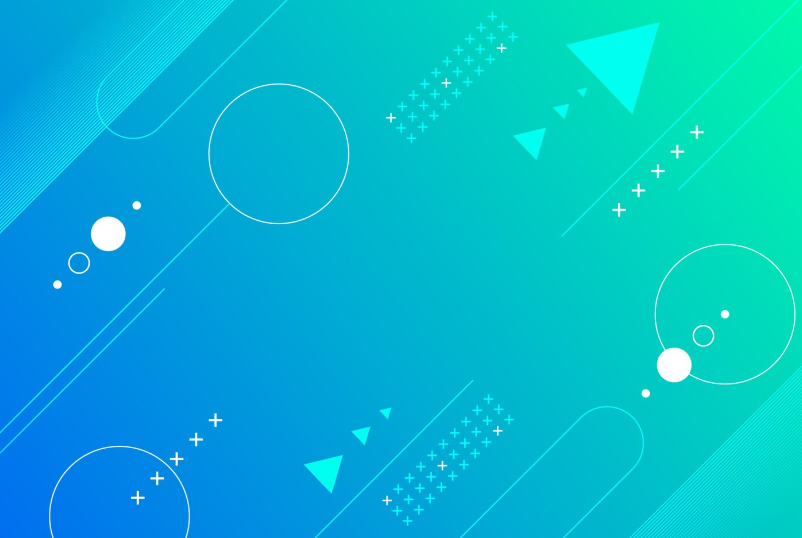
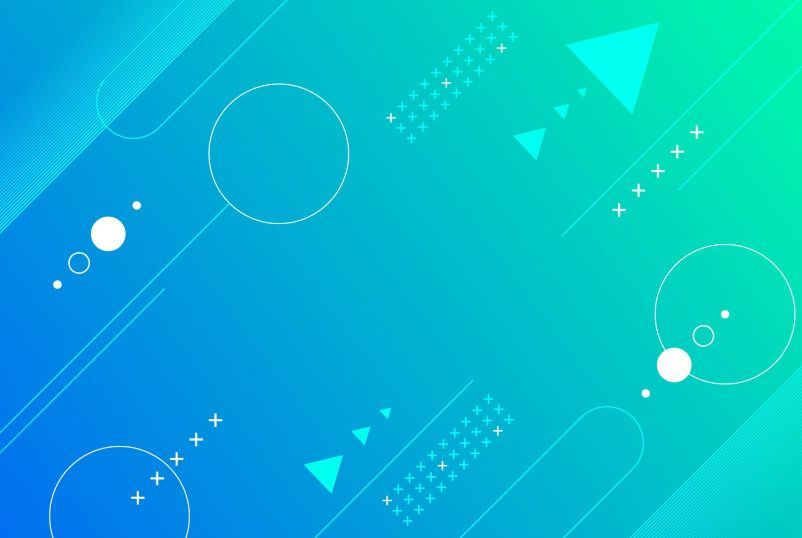
perf: optimize assets and fonts for ultra-fast loading on mobile and tablet devices

diff --git a/src/app/layout.tsx b/src/app/layout.tsx
@@ -35,6 +35,10 @@ export default function RootLayout({
   return (
     <html lang='th' suppressHydrationWarning>
       <head>
+        <link rel='preconnect' href='https://fonts.googleapis.com' />
+        <link rel='preconnect' href='https://fonts.gstatic.com' crossOrigin='anonymous' />
+        <link rel='preconnect' href='https://images.unsplash.com' />
+        <link rel='dns-prefetch' href='https://images.unsplash.com' />
         <link rel='icon' href='/favicon.ico' sizes='any' />
         <link rel='icon' type='image/png' sizes='32x32' href='/favicon.png' />
         <link rel='apple-touch-icon' sizes='180x180' href='/apple-touch-icon.png' />
@@ -42,6 +46,7 @@ export default function RootLayout({
         <meta name='apple-mobile-web-app-title' content='เตี๋ยวเป็ด POS' />
         <meta name='apple-mobile-web-app-capable' content='yes' />
         <meta name='apple-mobile-web-app-status-bar-style' content='black-translucent' />
+        <meta name='format-detection' content='telephone=no' />
       </head>
       <body suppressHydrationWarning className='min-h-screen bg-slate-100/70 text-slate-900 antialiased flex flex-col font-sans'>
         <RestaurantProvider>

diff --git a/src/app/globals.css b/src/app/globals.css
@@ -1,5 +1,5 @@
+@import url('https://fonts.googleapis.com/css2?family=Plus+Jakarta+Sans:wght@500;700;800&family=Prompt:wght@400;600;700&display=swap');
 @import url('https://cdn.jsdelivr.net/gh/lazywasabi/thai-web-fonts@main/fonts/LINESeedSansTH/LINESeedSansTH.css');
-@import url('https://fonts.googleapis.com/css2?family=Plus+Jakarta+Sans:wght@400;500;600;700;800&family=Kanit:ital,wght@0,300;0,400;0,500;0,600;0,700;0,800;0,900;1,400&family=Prompt:ital,wght@0,300;0,400;0,500;0,600;0,700;0,800;0,900;1,400&family=IBM+Plex+Sans+Thai:wght@300;400;500;600;700&display=swap');
 
 @tailwind base;
 @tailwind components;

diff --git a/next.config.js b/next.config.js
@@ -5,5 +5,8 @@ const nextConfig = {
     unoptimized: true,
   },
   reactStrictMode: true,
+  compiler: {
+    removeConsole: process.env.NODE_ENV === 'production',
+  },
 };
 module.exports = nextConfig;
